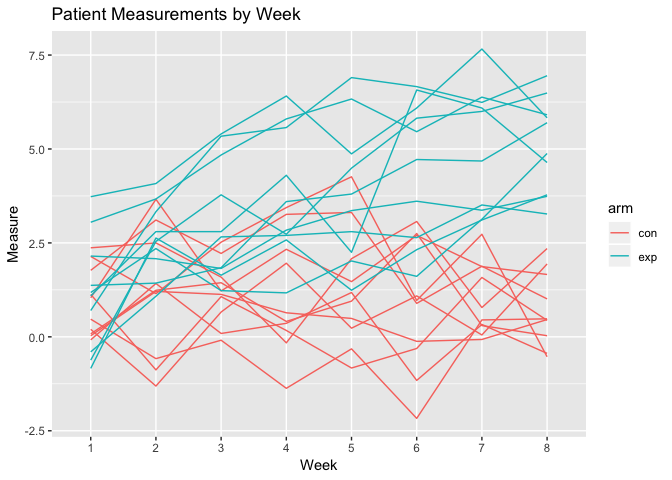
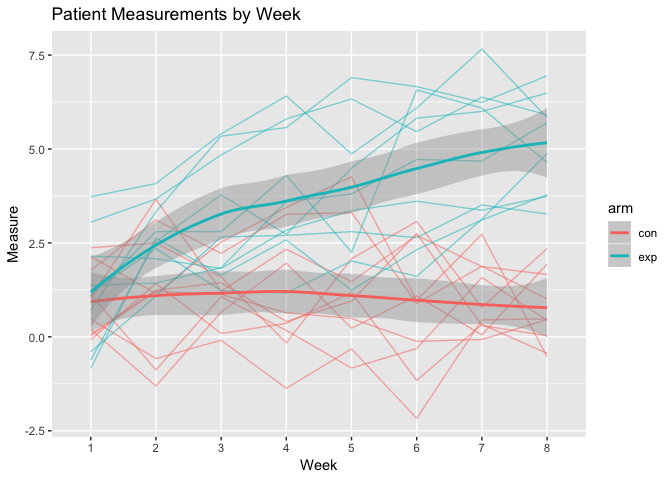
pretty much done with 1

diff --git a/p8105_hw5_zdz2101.md b/p8105_hw5_zdz2101.md
@@ -53,18 +53,19 @@ patient_df
     ## # ... with 150 more rows
 
 ``` r
-setwd("..")
+setwd("..") #move back to original repo, don't want to continue working in the /data folder
 
 ggplot(patient_df, aes(x = week, y = measure, group = filenames, color = arm)) +
-  geom_line() +
+  geom_line(alpha = 0.5) +
   scale_x_discrete(name ="Week", limits=1:8) +
   ylab("Measure") +
-  ggtitle("Patient Measurements by Week")
+  ggtitle("Patient Measurements by Week") +
+  geom_smooth(aes(group = arm))
 ```
 
 ![](p8105_hw5_zdz2101_files/figure-markdown_github/unnamed-chunk-2-1.png)
 
-The trend for control group patients' measurements seems stagnant and don't quite change over time while patients in the experimental arm, their measurements seem to rise over time.
+The trend for control group patients' measurements seems stagnant and doesn't seem to change over time. I would suspect this is a placebo of some sort. On the other hand, patients in the experimental arm, their measurements generally increase over time. There is not enough information provided to interpret whether this increase is a good or bad thing. I would also suspect this difference in trends would be statistically significant just from a visual standpoint.
 
 ``` r
 homicide_df <- read_csv("https://raw.githubusercontent.com/washingtonpost/data-homicides/master/homicide-data.csv")
